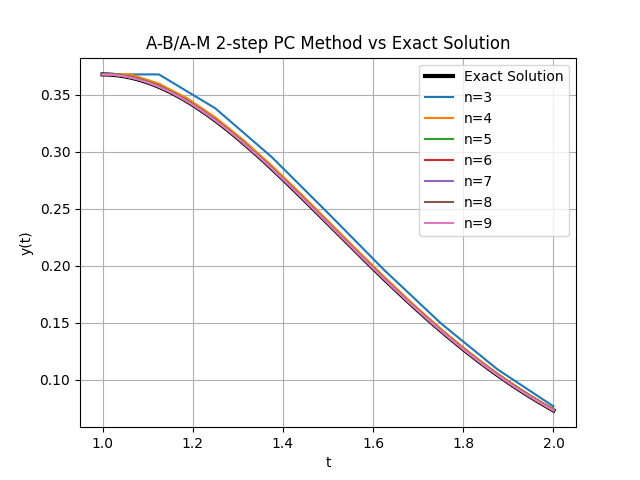
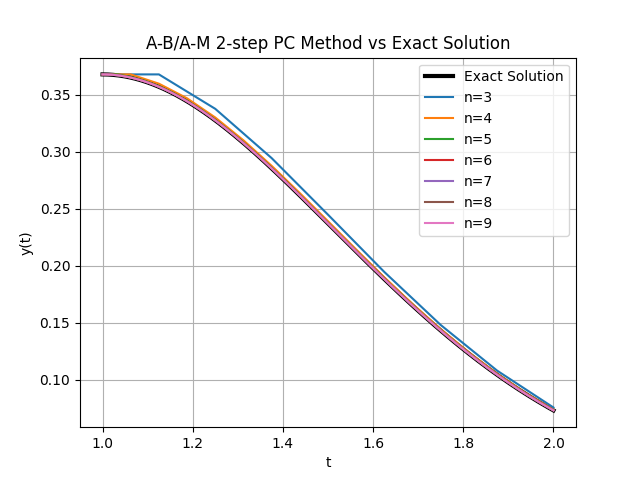
Fixed A-B/A-M method

diff --git a/lab_5/lab5_q3.py b/lab_5/lab5_q3.py
@@ -47,10 +47,13 @@ def ab_am_2step_pc(h, t):
             # Use Euler's method for the first step
             y = y + h * dy_dt(y, t[j])
         else:
+            fi = dy_dt(y, t[j])
+            fi_1 = dy_dt(y_arr[j-1], t[j-1])
             # Predictor step (Adams-Bashforth)
             y_pred = y + (h/2) * (3 * dy_dt(y, t[j]) - dy_dt(y_arr[j-1], t[j-1]))
             # Corrector step (Adams-Moulton)
-            y = y + (h/2) * (dy_dt(y, t[j]) + dy_dt(y_pred, t[j+1]))
+            fi_plus1 = dy_dt(y_pred, t[j+1])
+            y = y + (h/12) * (8*fi + 5*fi_plus1 - fi_1)
         y_arr[j+1] = y
     return y_arr
 
@@ -221,7 +224,7 @@ for n in n_values:
     ab_am_errors_at_2.append(np.abs(ab_am_2step_pc(h, t)[-1] - exact[-1]))
     rk4_errors_at_2.append(np.abs(rk4(h, t)[-1] - exact[-1]))
 
-# Create convergence plot
+# Create absolute error plot
 plt.figure(figsize=(10, 6))
 h_reciprocal = [1/h for h in h_values]
 plt.loglog(h_reciprocal, euler_errors_at_2, 'o-', label='Euler Method')
@@ -230,7 +233,7 @@ plt.loglog(h_reciprocal, ab_am_errors_at_2, 'o-', label='A-B/A-M 2-step PC Metho
 plt.loglog(h_reciprocal, rk4_errors_at_2, 'o-', label='RK4 Method')
 plt.xlabel('1/h')
 plt.ylabel('Absolute Error at t=2')
-plt.title('Convergence Analysis (log-log scale)')
+plt.title('Absolute Error at y(2) for each method (log-log scale)')
 plt.legend()
 plt.grid(True)
 plt.show()
